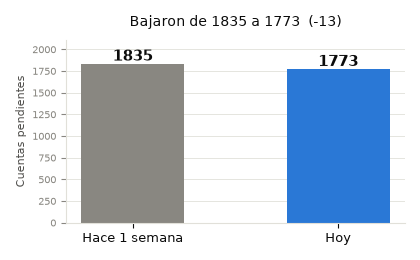
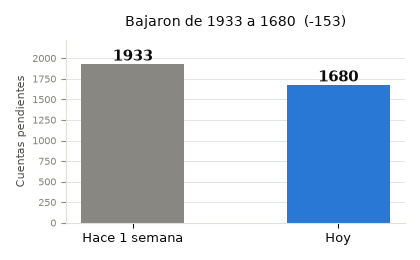
mail semanal: 2026-09-25

diff --git a/mail_output/body.html b/mail_output/body.html
@@ -2,40 +2,40 @@
 
 <p>Hola,</p>
 
-<p>Este es el resumen semanal del tablero de <b>Campos Clave</b> de Salesforce, comparando el estado de hoy (2026-09-18) contra el de hace una semana (2026-09-11).</p>
+<p>Este es el resumen semanal del tablero de <b>Campos Clave</b> de Salesforce, comparando el estado de hoy (2026-09-25) contra el de hace una semana (2026-09-18).</p>
 
-<p><b>13 cuentas se completaron</b> esta semana, de las 1835 que estaban pendientes el 2026-09-11. Quedan 1773 cuentas todavia incompletas.</p>
+<p><b>153 cuentas se completaron</b> esta semana, de las 1933 que estaban pendientes el 2026-09-18. Quedan 1680 cuentas todavia incompletas.</p>
 
-<p><img src="cid:avance_chart" alt="Cuentas pendientes: bajaron de 1835 a 1773" width="420"></p>
+<p><img src="cid:avance_chart" alt="Cuentas pendientes: bajaron de 1933 a 1680" width="420"></p>
 
 <p><b>Top 10 &mdash; hunters que mas cuentas corrigieron</b></p>
 <table cellpadding="4" cellspacing="0" style="border-collapse:collapse;font-size:13px">
-<tr style="border-bottom:1px solid #999"><th align="left">Hunter</th><th align="center">Corregidas</th><th align="center">Pendientes (2026-09-11)</th></tr>
-<tr style="border-bottom:1px solid #ddd"><td>Agostina Audisio</td><td align="center" style="color:#0ca30c;font-weight:bold">5</td><td align="center">18</td></tr>
-<tr style="border-bottom:1px solid #ddd"><td>Carolina Cruz</td><td align="center" style="color:#0ca30c;font-weight:bold">3</td><td align="center">41</td></tr>
-<tr style="border-bottom:1px solid #ddd"><td>Juan Ignacio Sottile</td><td align="center" style="color:#0ca30c;font-weight:bold">2</td><td align="center">59</td></tr>
-<tr style="border-bottom:1px solid #ddd"><td>Valentina Burgos Ermacora</td><td align="center" style="color:#0ca30c;font-weight:bold">2</td><td align="center">31</td></tr>
-<tr style="border-bottom:1px solid #ddd"><td>Juan Kirzner</td><td align="center" style="color:#0ca30c;font-weight:bold">1</td><td align="center">59</td></tr>
-<tr style="border-bottom:1px solid #ddd"><td>Pablo Garcia Reyna</td><td align="center" style="color:#0ca30c;font-weight:bold">0</td><td align="center">23</td></tr>
-<tr style="border-bottom:1px solid #ddd"><td>Ornella Di Natale</td><td align="center" style="color:#0ca30c;font-weight:bold">0</td><td align="center">63</td></tr>
-<tr style="border-bottom:1px solid #ddd"><td>Aylen Martin</td><td align="center" style="color:#0ca30c;font-weight:bold">0</td><td align="center">23</td></tr>
-<tr style="border-bottom:1px solid #ddd"><td>Abril Romano Marcucci</td><td align="center" style="color:#0ca30c;font-weight:bold">0</td><td align="center">21</td></tr>
-<tr style="border-bottom:1px solid #ddd"><td>Delfina Sipes</td><td align="center" style="color:#0ca30c;font-weight:bold">0</td><td align="center">64</td></tr>
+<tr style="border-bottom:1px solid #999"><th align="left">Hunter</th><th align="center">Corregidas</th><th align="center">Pendientes (2026-09-18)</th></tr>
+<tr style="border-bottom:1px solid #ddd"><td>Juan Kirzner</td><td align="center" style="color:#0ca30c;font-weight:bold">51</td><td align="center">62</td></tr>
+<tr style="border-bottom:1px solid #ddd"><td>Nicolas Olivari</td><td align="center" style="color:#0ca30c;font-weight:bold">20</td><td align="center">49</td></tr>
+<tr style="border-bottom:1px solid #ddd"><td>Victoria Ester Strzelecki</td><td align="center" style="color:#0ca30c;font-weight:bold">19</td><td align="center">23</td></tr>
+<tr style="border-bottom:1px solid #ddd"><td>Marina Abril Radnay</td><td align="center" style="color:#0ca30c;font-weight:bold">15</td><td align="center">18</td></tr>
+<tr style="border-bottom:1px solid #ddd"><td>Tomas Agustin Crespi</td><td align="center" style="color:#0ca30c;font-weight:bold">12</td><td align="center">47</td></tr>
+<tr style="border-bottom:1px solid #ddd"><td>Agustin Sebastian Gourdy</td><td align="center" style="color:#0ca30c;font-weight:bold">10</td><td align="center">35</td></tr>
+<tr style="border-bottom:1px solid #ddd"><td>Agostina Audisio</td><td align="center" style="color:#0ca30c;font-weight:bold">8</td><td align="center">14</td></tr>
+<tr style="border-bottom:1px solid #ddd"><td>Benjamin Fernandez Llorente</td><td align="center" style="color:#0ca30c;font-weight:bold">7</td><td align="center">42</td></tr>
+<tr style="border-bottom:1px solid #ddd"><td>Josefina Barcellona</td><td align="center" style="color:#0ca30c;font-weight:bold">2</td><td align="center">25</td></tr>
+<tr style="border-bottom:1px solid #ddd"><td>Ornella Di Natale</td><td align="center" style="color:#0ca30c;font-weight:bold">1</td><td align="center">64</td></tr>
 </table>
 
 <p><b>Top 10 &mdash; hunters que menos cuentas corrigieron</b></p>
 <table cellpadding="4" cellspacing="0" style="border-collapse:collapse;font-size:13px">
-<tr style="border-bottom:1px solid #999"><th align="left">Hunter</th><th align="center">Corregidas</th><th align="center">Pendientes (2026-09-11)</th></tr>
-<tr style="border-bottom:1px solid #ddd"><td>Pablo Garcia Reyna</td><td align="center" style="color:#d03b3b;font-weight:bold">0</td><td align="center">23</td></tr>
-<tr style="border-bottom:1px solid #ddd"><td>Ornella Di Natale</td><td align="center" style="color:#d03b3b;font-weight:bold">0</td><td align="center">63</td></tr>
-<tr style="border-bottom:1px solid #ddd"><td>Aylen Martin</td><td align="center" style="color:#d03b3b;font-weight:bold">0</td><td align="center">23</td></tr>
-<tr style="border-bottom:1px solid #ddd"><td>Abril Romano Marcucci</td><td align="center" style="color:#d03b3b;font-weight:bold">0</td><td align="center">21</td></tr>
-<tr style="border-bottom:1px solid #ddd"><td>Delfina Sipes</td><td align="center" style="color:#d03b3b;font-weight:bold">0</td><td align="center">64</td></tr>
-<tr style="border-bottom:1px solid #ddd"><td>Francesca Maria Caletti</td><td align="center" style="color:#d03b3b;font-weight:bold">0</td><td align="center">43</td></tr>
-<tr style="border-bottom:1px solid #ddd"><td>Agustina Abril Pederiva Fernandez</td><td align="center" style="color:#d03b3b;font-weight:bold">0</td><td align="center">88</td></tr>
-<tr style="border-bottom:1px solid #ddd"><td>Facundo Calderon Sanabria</td><td align="center" style="color:#d03b3b;font-weight:bold">0</td><td align="center">35</td></tr>
-<tr style="border-bottom:1px solid #ddd"><td>Nicolas Olivari</td><td align="center" style="color:#d03b3b;font-weight:bold">0</td><td align="center">51</td></tr>
-<tr style="border-bottom:1px solid #ddd"><td>Julian Rafael Favarel</td><td align="center" style="color:#d03b3b;font-weight:bold">0</td><td align="center">48</td></tr>
+<tr style="border-bottom:1px solid #999"><th align="left">Hunter</th><th align="center">Corregidas</th><th align="center">Pendientes (2026-09-18)</th></tr>
+<tr style="border-bottom:1px solid #ddd"><td>Agostina Rubio</td><td align="center" style="color:#d03b3b;font-weight:bold">0</td><td align="center">98</td></tr>
+<tr style="border-bottom:1px solid #ddd"><td>Tomas Felipe Melis</td><td align="center" style="color:#d03b3b;font-weight:bold">0</td><td align="center">27</td></tr>
+<tr style="border-bottom:1px solid #ddd"><td>Agustina Abril Pederiva Fernandez</td><td align="center" style="color:#d03b3b;font-weight:bold">0</td><td align="center">89</td></tr>
+<tr style="border-bottom:1px solid #ddd"><td>Juan Pablo Alva</td><td align="center" style="color:#d03b3b;font-weight:bold">0</td><td align="center">40</td></tr>
+<tr style="border-bottom:1px solid #ddd"><td>Federico Perez</td><td align="center" style="color:#d03b3b;font-weight:bold">0</td><td align="center">48</td></tr>
+<tr style="border-bottom:1px solid #ddd"><td>Willem Goodridge</td><td align="center" style="color:#d03b3b;font-weight:bold">0</td><td align="center">50</td></tr>
+<tr style="border-bottom:1px solid #ddd"><td>Carolina Cruz</td><td align="center" style="color:#d03b3b;font-weight:bold">0</td><td align="center">38</td></tr>
+<tr style="border-bottom:1px solid #ddd"><td>Aylen Martin</td><td align="center" style="color:#d03b3b;font-weight:bold">0</td><td align="center">25</td></tr>
+<tr style="border-bottom:1px solid #ddd"><td>Juan Ignacio Sottile</td><td align="center" style="color:#d03b3b;font-weight:bold">0</td><td align="center">59</td></tr>
+<tr style="border-bottom:1px solid #ddd"><td>Santiago Balestrieri</td><td align="center" style="color:#d03b3b;font-weight:bold">0</td><td align="center">19</td></tr>
 </table>
 <p style="font-size:11px;color:#666">*Solo incluye hunters que tenian al menos 1 cuenta pendiente hace una semana.</p>
 
